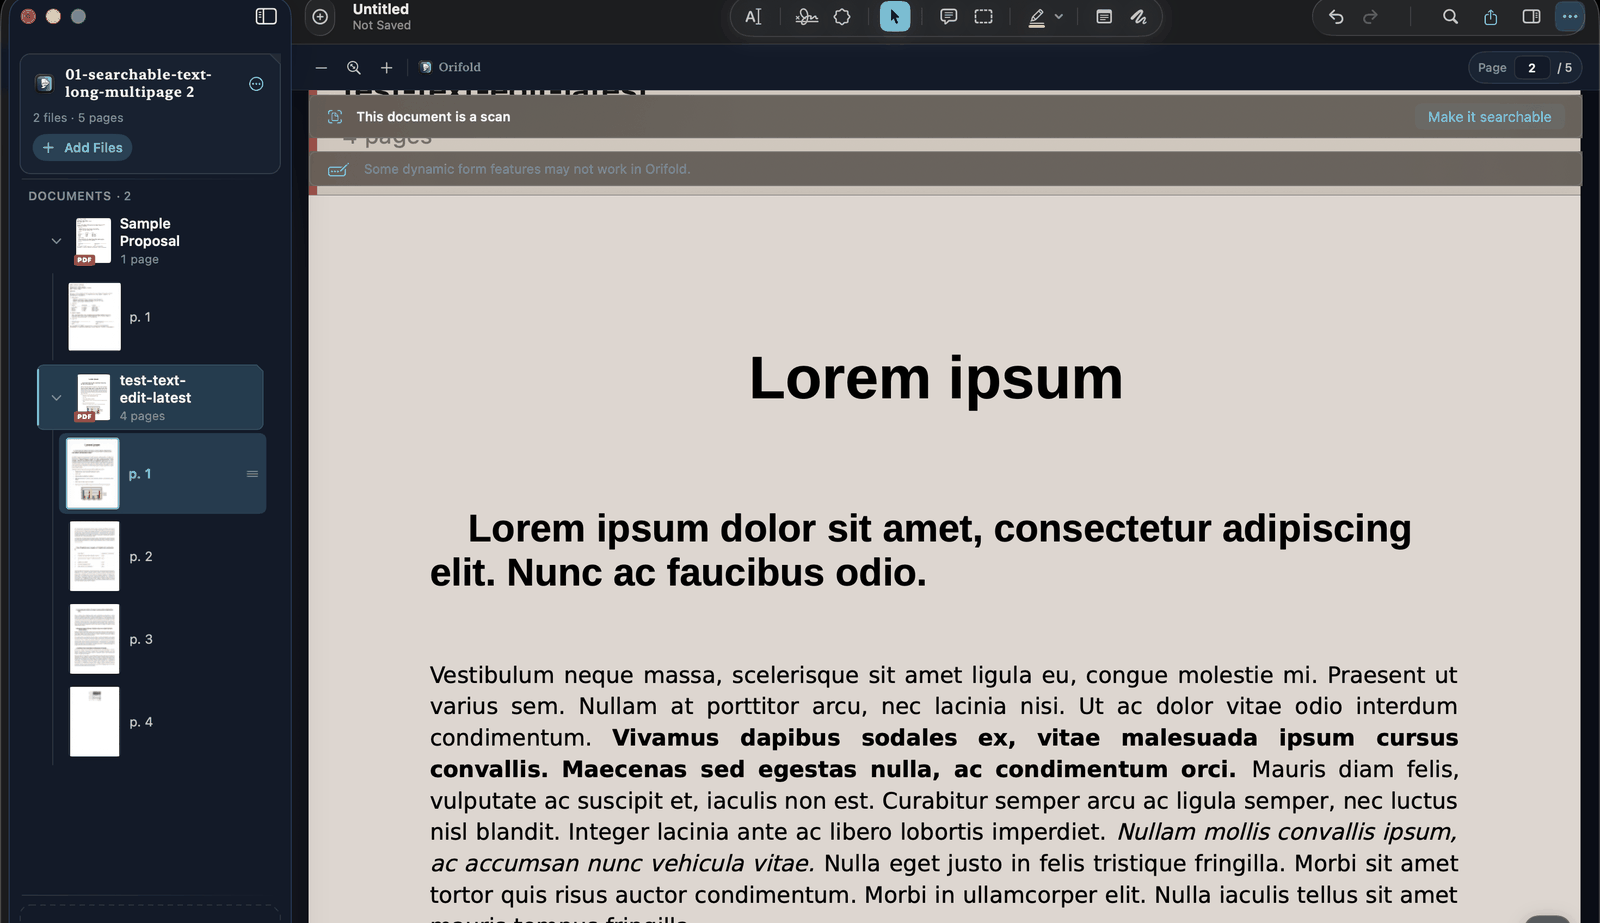
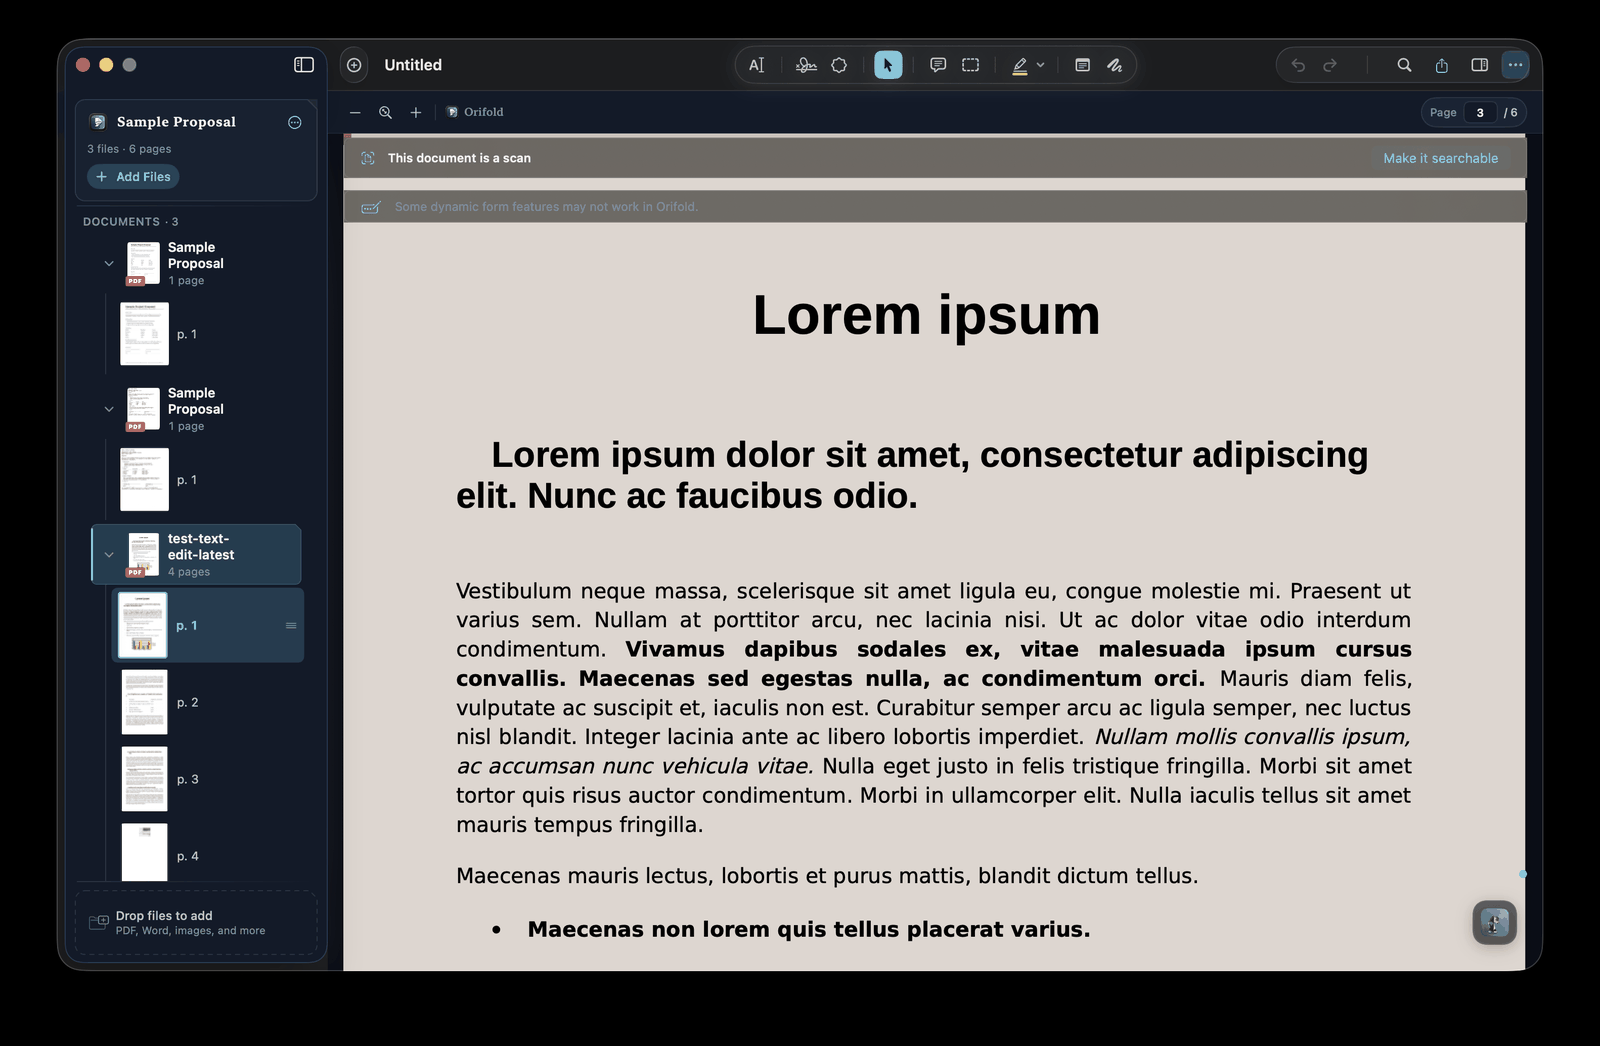
Close the last 2 media gaps: import-files and recently-viewed, now real
From a batch of 9 new manually-driven captures, 3 were worth keeping:
- import-files-overview: a real mid-drag moment ("Release to import files"
  over the highlighted drop zone) — replaces the illustrated SVG.
- recently-viewed-shelf: a real shelf entry (Sample Proposal, "Resume · p.1",
  "6h ago") — replaces the illustrated SVG. Alt text corrected to describe
  one real thumbnail rather than the illustration's invented 3-4.
- combine-reorder-pages: upgraded from a two-document to a three-document
  sidebar capture (cleaner, no open menu).

13 of 14 media slots are now real; only the Draw/Type/Initials visual-signing
clip remains an honest Media-component placeholder. Also removed an orphaned
companion-gami-ori.svg left over from when the companion page switched to the
real gami-figure.svg/ori-figure.svg pair. Build green, verified in preview.

diff --git a/docs/assets/MEDIA_MANIFEST.md b/docs/assets/MEDIA_MANIFEST.md
@@ -1,6 +1,6 @@
 # Docs media capture manifest
 
-**Status: 11 of 14 slots are real photographic captures; 3 remain illustrated SVGs.** Real
+**Status: 13 of 14 slots are real photographic captures; 1 remains an illustrated SVG.** Real
 captures live in `docs-site/public/assets/screenshots/` and `docs-site/public/assets/gifs/` and
 are wired into their pages' `<Figure src="...">` prop; the `Figure` component's
 dashed-placeholder fallback (see `docs-site/src/components/Figure.astro`) is not in use anywhere
@@ -38,18 +38,22 @@ Captured for real (v0.8.1 source build, dark mode, no Dock/menu bar/recording-bo
 `first-workspace-empty-state.png`, `the-orifold-window-annotated.png`,
 `annotate-markup-tools.png`, `night-mode-comparison.png`, `reader-mode-toggle.png`,
 `language-switcher.png`, `edit-text-workflow.png`, `sign-document-digital.png`,
-`export-save-confirmation.png`, `combine-reorder-pages.png`, `reorder-rotate-delete-pages.png`.
+`export-save-confirmation.png`, `combine-reorder-pages.png`, `reorder-rotate-delete-pages.png`,
+`import-files-overview.png`, `recently-viewed-shelf.png`.
 
-Still illustrated SVGs (open work — replace per the standards below when captured):
-`import-files-overview.svg`, `recently-viewed-shelf.svg`, `sign-document-workflow-visual.svg`
-(the Draw/Type/Initials flow — distinct from the Digital signing capture above, which already
-has a real screenshot). `import-files-overview` and `recently-viewed-shelf` both need either a
-persisted recent-files list or a mid-drag moment to capture for real — not just opening the app
-once. `sign-document-workflow-visual` is wired through the `Media` component
-(`docs-site/src/components/Media.astro`) with the illustrated SVG as the video `poster`, so
-dropping in a real clip later is a one-line change — add `mp4="/Orifold/assets/gifs/<name>.mp4"`
-next to the existing `poster=` and the still is replaced by an autoplaying, muted, looping,
-reduced-motion-aware `<video>`:
+`import-files-overview.png` catches a real mid-drag moment ("Release to import files," drop zone
+highlighted, a demo PDF hovering above it). `recently-viewed-shelf.png` shows a real one-file
+shelf entry (a "Resume · p. 1" badge, "6h ago · 1 page") — the alt text was corrected to describe
+one real thumbnail rather than the "3–4 demo thumbnails" the illustration implied.
+`combine-reorder-pages.png` was upgraded from a two-document to a three-document sidebar capture.
+
+Still illustrated SVG (open work — replace per the standards below when captured):
+`sign-document-workflow-visual.svg` (the Draw/Type/Initials flow — distinct from the Digital
+signing capture above, which already has a real screenshot). It's wired through the `Media`
+component (`docs-site/src/components/Media.astro`) with the illustrated SVG as the video
+`poster`, so dropping in a real clip later is a one-line change — add
+`mp4="/Orifold/assets/gifs/<name>.mp4"` next to the existing `poster=` and the still is replaced
+by an autoplaying, muted, looping, reduced-motion-aware `<video>`:
 
 | Page | `Media` on page | Target clip |
 | --- | --- | --- |
@@ -85,8 +89,8 @@ reference; the Astro site serves only from `docs-site/public/assets/`.
 
 | Filename | Type | Status | Page | Shows |
 | --- | --- | --- | --- | --- |
-| `import-files-overview.svg` | screenshot | illustrated | [import/import-files](../../docs-site/src/content/docs/import/import-files.mdx) | Empty-state screen mid-drag, 2–3 demo files entering the drop zone |
-| `combine-reorder-pages.png` | screenshot | **real** | [import/combine](../../docs-site/src/content/docs/import/combine.mdx) | Two documents in the sidebar, both expanded to show page thumbnails |
+| `import-files-overview.png` | screenshot | **real** | [import/import-files](../../docs-site/src/content/docs/import/import-files.mdx) | Empty-state screen mid-drag: "Release to import files," a demo PDF hovering over the highlighted drop zone |
+| `combine-reorder-pages.png` | screenshot | **real** | [import/combine](../../docs-site/src/content/docs/import/combine.mdx) | Three documents in the sidebar, each expanded to show page thumbnails |
 | `reorder-rotate-delete-pages.png` | screenshot | **real** | [import/organize-pages](../../docs-site/src/content/docs/import/organize-pages.mdx) | The `···` menu's Pages section: Rotate Left, Rotate Right, Duplicate Page, Delete Page |
 | `edit-text-workflow.png` | screenshot | **real** | [edit/edit-text](../../docs-site/src/content/docs/edit/edit-text.mdx) | A sentence selected in detected text, with the floating format toolbar open |
 | `annotate-markup-tools.png` | screenshot | **real** | [annotate/markup](../../docs-site/src/content/docs/annotate/markup.mdx) | Highlight tool active in the toolbar, one yellow highlight placed on demo text |
@@ -94,14 +98,14 @@ reference; the Astro site serves only from `docs-site/public/assets/`.
 | `sign-document-digital.png` | screenshot | **real** | [fill-sign/signatures](../../docs-site/src/content/docs/fill-sign/signatures.mdx) | The Digital signing palette: self-signed identity, timestamp provider picker, signature preview |
 | `export-save-confirmation.png` | screenshot | **real** | [export/export-save](../../docs-site/src/content/docs/export/export-save.mdx) | The Export dialog: format picker, password/compress/sanitize options |
 | `language-switcher.png` | screenshot | **real** | [settings/language](../../docs-site/src/content/docs/settings/language.mdx) | Landing-screen language switcher open, all 6 languages visible |
-| `recently-viewed-shelf.svg` | screenshot | illustrated | [import/recently-viewed](../../docs-site/src/content/docs/import/recently-viewed.mdx) | Empty-state screen with the Recently Viewed shelf, 3–4 demo-file thumbnails |
+| `recently-viewed-shelf.png` | screenshot | **real** | [import/recently-viewed](../../docs-site/src/content/docs/import/recently-viewed.mdx) | Empty-state screen with the Recently Viewed shelf: a "Sample Proposal" thumbnail with a "Resume · p. 1" badge |
 | `night-mode-comparison.png` | screenshot | **real** | [reading/night-mode](../../docs-site/src/content/docs/reading/night-mode.mdx) | The Document Comfort popover open: presets, application/page mode, fine-tune sliders |
 | `reader-mode-toggle.png` | screenshot | **real** | [reading/reader-mode](../../docs-site/src/content/docs/reading/reader-mode.mdx) | Reader Mode on: the Reader pill, the explanatory banner, and the View menu's toggle |
 | `first-workspace-empty-state.png` | screenshot | **real** | [get-started/first-workspace](../../docs-site/src/content/docs/get-started/first-workspace.mdx) | The empty-state screen just after picking a companion (Gami shown) |
 | `the-orifold-window-annotated.png` | screenshot | **real** | [get-started/the-window](../../docs-site/src/content/docs/get-started/the-window.mdx) | Sidebar, toolbar, and canvas with the Sample Proposal doc open |
 
 Each target page's `alt` text describes the exact framing above, so whoever captures the
-remaining slots can grep the docs source for a filename and know precisely what to shoot.
+remaining slot can grep the docs source for the filename and know precisely what to shoot.
 
 ## After capturing a real asset
 